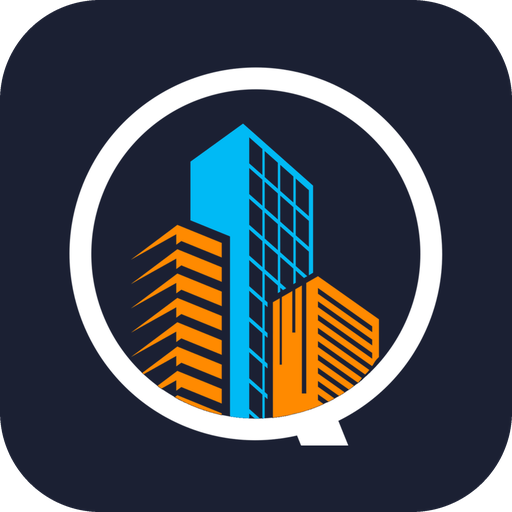
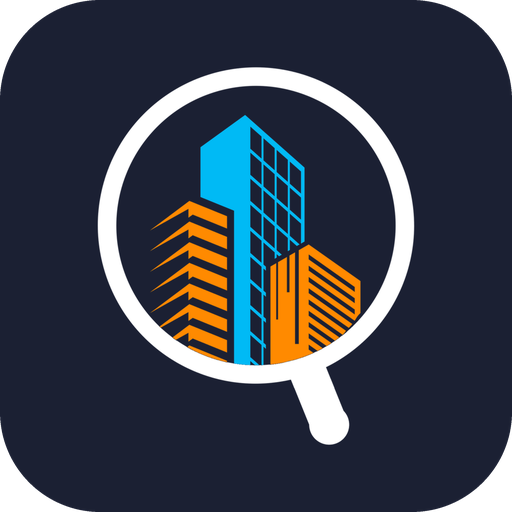
BTP Expertise : la loupe retrouve son manche
Tous les pictogrammes livrés coupent le manche à plat — le logo maître le fait
descendre jusqu'au bord bas de son image, où il s'arrête net, parce qu'il
passe derrière le mot « EXPERTISE ». Sur un carré d'icône, ce moignon se lit
comme une image mal recadrée (Élodie : « il est coupé »).

La barre est prolongée de 120 px dans son axe (largeur 130, pente 0,404,
mesurées sur logo-fond-sombre.png) et fermée par un demi-rond. Le mark devient
plus haut que large, le cercle rétrécit un peu dans la tuile : c'est le prix
d'une loupe entière. Mesures et recette dans assets/logos/A-LIRE.md.

diff --git a/assets/logos/A-LIRE.md b/assets/logos/A-LIRE.md
@@ -21,6 +21,27 @@ carte de visite. Il ne sert pas au menu : il sert à fabriquer les icônes de
 l'application `btp.html` (`python assets/faire-icones.py`), posées sur fond
 sombre, où le cercle bleu nuit de `btp.png` disparaîtrait.
 
+⚠ **SON MANCHE DE LOUPE EST REDESSINÉ, ET IL FALLAIT LE FAIRE** (28/10/2026,
+Élodie : « le logo de BTP Expertise je n'aime pas, il est coupé »). Tous les
+pictogrammes livrés coupent ce manche : `picto.png` le tranche à plat juste
+au-dessus de la ligne de texte, et le logo maître lui-même le fait descendre
+**jusqu'au bord bas de son image**, où il s'arrête net — il n'a jamais eu de
+bout dessiné, parce qu'il passe derrière le mot « EXPERTISE ». Sur un carré
+d'icône, ce moignon se lit comme une image mal recadrée.
+
+Mesuré sur `logo-fond-sombre.png` (1600 × 1303) :
+
+| | |
+|---|---|
+| cercle | centre (863,5 ; 523,5), rayon 515,5 — donc y 8 à 1039 |
+| manche | barre droite, **largeur 130**, penchée de **dx/dy = 0,404** |
+| bord gauche | x = 989 + 0,404 × (y − 1047) |
+
+On reprend donc le fichier coupé à y = 1047 et on **prolonge la barre de
+120 px**, fermée par un demi-rond de rayon 65. Le mark devient plus haut que
+large, le cercle rétrécit un peu dans la tuile — c'est le prix d'une loupe
+entière, et il se paie une fois.
+
 Les trois autres structures n'ont pas de fichier équivalent : le symbole de La
 Référence Courtage et celui de Propulsion sont **redessinés** par le script —
 quatre et trois formes géométriques —, parce qu'un PNG de 128 px agrandi à
